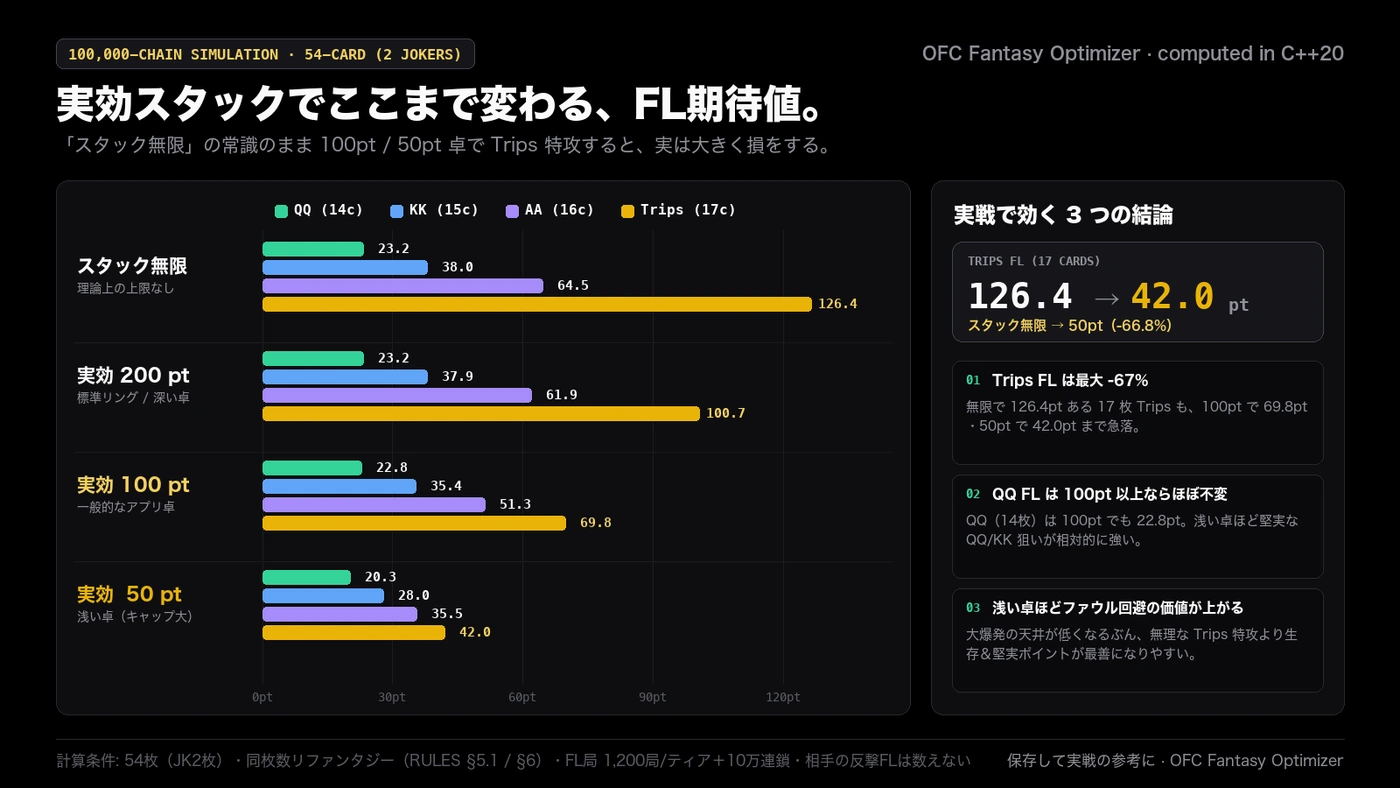
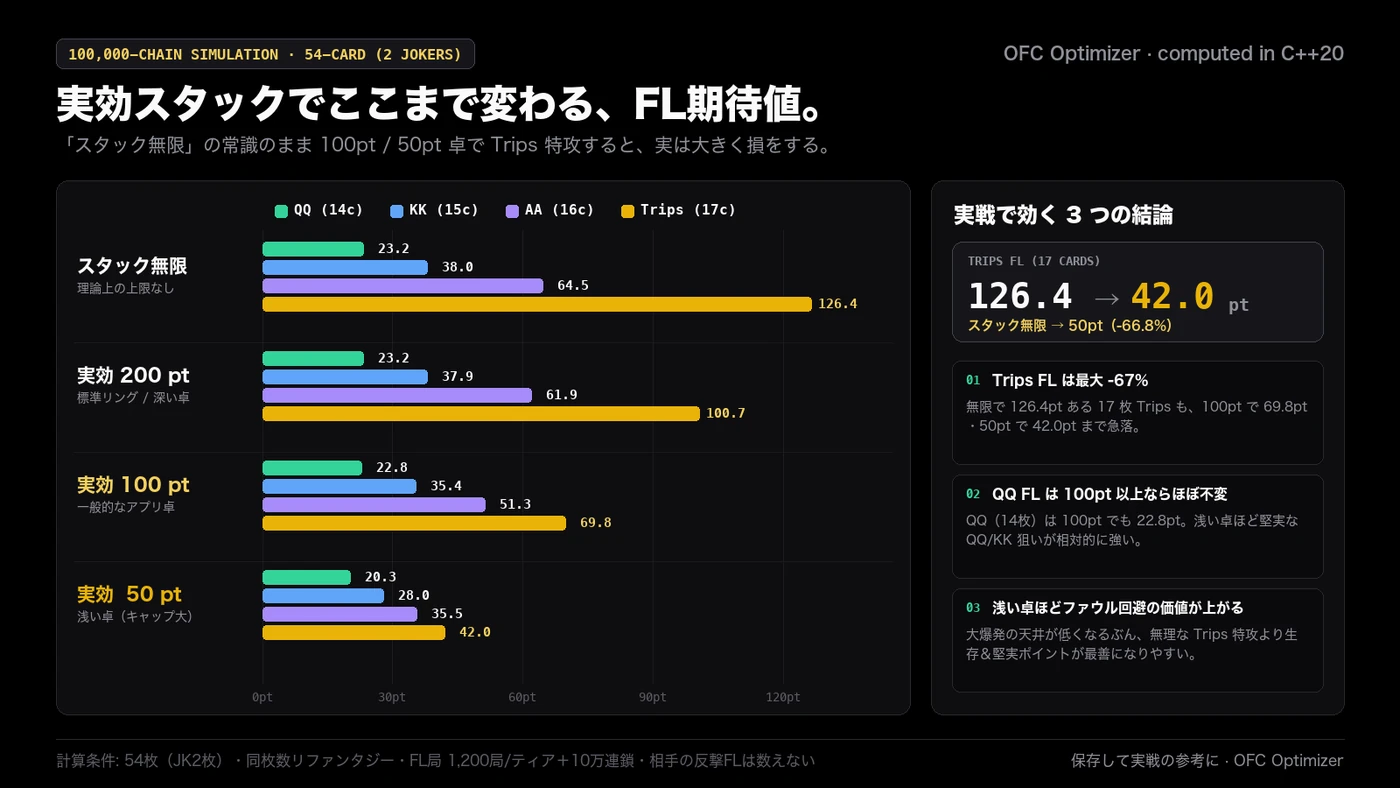
chore(lp): unify chart images to OFC Optimizer, remove internal RULES ref, add theme-color

Changed region(s): [[0.2764, 0.9442, 0.6757, 0.9746], [0.7064, 0.9442, 0.9214, 0.9746], [0.645, 0.0609, 0.7679, 0.0914]]

diff --git a/en/index.html b/en/index.html
@@ -3,6 +3,7 @@
   <head>
     <meta charset="utf-8" />
     <meta name="viewport" content="width=device-width, initial-scale=1" />
+    <meta name="theme-color" content="#070709" />
     <title>OFC Pineapple Solver &amp; Trainer (100% Offline C++20) — OFC Optimizer v3.0</title>
     <meta
       name="description"
@@ -182,7 +183,7 @@
               <img
                 class="chart-img"
                 data-chart="chart-stack-fl"
-                src="../assets/chart-stack-fl-en.webp"
+                src="../assets/chart-stack-fl-en.webp?v=20261125-4"
                 alt="Effective stack vs FL value chart"
                 width="1400"
                 height="788"
@@ -196,7 +197,7 @@
               <img
                 class="chart-img"
                 data-chart="chart-54-vs-52"
-                src="../assets/chart-54-vs-52-en.webp"
+                src="../assets/chart-54-vs-52-en.webp?v=20261125-4"
                 alt="54-card vs 52-card FL value chart"
                 width="1400"
                 height="788"
@@ -312,6 +313,6 @@
       <img id="lightbox-img" alt="" />
     </div>
 
-    <script src="../app.js?v=20261125-2"></script>
+    <script src="../app.js?v=20261125-4"></script>
   </body>
 </html>

diff --git a/index.html b/index.html
@@ -3,6 +3,7 @@
   <head>
     <meta charset="utf-8" />
     <meta name="viewport" content="width=device-width, initial-scale=1" />
+    <meta name="theme-color" content="#070709" />
     <title>OFC Optimizer v3.0 — 100% オフライン OFC Pineapple ソルバー＆トレーニング</title>
     <meta
       name="description"
@@ -182,7 +183,7 @@
               <img
                 class="chart-img"
                 data-chart="chart-stack-fl"
-                src="assets/chart-stack-fl-ja.webp"
+                src="assets/chart-stack-fl-ja.webp?v=20261125-4"
                 alt="Effective stack vs FL value chart"
                 width="1400"
                 height="788"
@@ -196,7 +197,7 @@
               <img
                 class="chart-img"
                 data-chart="chart-54-vs-52"
-                src="assets/chart-54-vs-52-ja.webp"
+                src="assets/chart-54-vs-52-ja.webp?v=20261125-4"
                 alt="54-card vs 52-card FL value chart"
                 width="1400"
                 height="788"
@@ -312,6 +313,6 @@
       <img id="lightbox-img" alt="" />
     </div>
 
-    <script src="app.js?v=20261125-2"></script>
+    <script src="app.js?v=20261125-4"></script>
   </body>
 </html>

diff --git a/fantasyland-ev-guide/index.html b/fantasyland-ev-guide/index.html
@@ -3,6 +3,7 @@
   <head>
     <meta charset="utf-8" />
     <meta name="viewport" content="width=device-width, initial-scale=1" />
+    <meta name="theme-color" content="#070709" />
     <title>OFC パイナップル ファンタジーランド（FL）期待値表：実効スタック別（50pt〜∞）＆ 54枚 vs 52枚 — OFC Optimizer</title>
     <meta
       name="description"
@@ -197,7 +198,7 @@
         <figure class="chart-card" style="margin:0 0 24px;">
           <img
             class="chart-img"
-            src="../assets/chart-stack-fl-ja.webp"
+            src="../assets/chart-stack-fl-ja.webp?v=20261125-4"
             alt="54枚 OFC パイナップル 実効スタック別ファンタジーランド期待値グラフ"
             width="1400"
             height="788"
@@ -259,7 +260,7 @@
         <figure class="chart-card" style="margin:0 0 24px;">
           <img
             class="chart-img"
-            src="../assets/chart-54-vs-52-ja.webp"
+            src="../assets/chart-54-vs-52-ja.webp?v=20261125-4"
             alt="54枚 vs 52枚（ジョーカーなし）OFC ファンタジーランド期待値比較グラフ"
             width="1400"
             height="788"

diff --git a/en/fantasyland-ev-guide/index.html b/en/fantasyland-ev-guide/index.html
@@ -3,6 +3,7 @@
   <head>
     <meta charset="utf-8" />
     <meta name="viewport" content="width=device-width, initial-scale=1" />
+    <meta name="theme-color" content="#070709" />
     <title>OFC Pineapple Fantasyland EV Chart: Effective Stack (50pt–∞) &amp; 54-Card vs 52-Card — OFC Optimizer</title>
     <meta
       name="description"
@@ -197,7 +198,7 @@
         <figure class="chart-card" style="margin:0 0 24px;">
           <img
             class="chart-img"
-            src="../../assets/chart-stack-fl-en.webp"
+            src="../../assets/chart-stack-fl-en.webp?v=20261125-4"
             alt="54-card OFC Pineapple Fantasyland EV by effective stack (50pt to infinity)"
             width="1400"
             height="788"
@@ -259,7 +260,7 @@
         <figure class="chart-card" style="margin:0 0 24px;">
           <img
             class="chart-img"
-            src="../../assets/chart-54-vs-52-en.webp"
+            src="../../assets/chart-54-vs-52-en.webp?v=20261125-4"
             alt="54-card vs 52-card OFC Pineapple Fantasyland EV comparison chart"
             width="1400"
             height="788"

diff --git a/app.js b/app.js
@@ -1019,7 +1019,7 @@
     });
     document.querySelectorAll('[data-chart]').forEach((img) => {
       const name = img.getAttribute('data-chart');
-      img.src = `${ASSET_BASE}assets/${name}-${lang}.webp`;
+      img.src = `${ASSET_BASE}assets/${name}-${lang}.webp?v=20261125-4`;
     });
 
     document.querySelectorAll('.lang-btn').forEach((btn) => {
